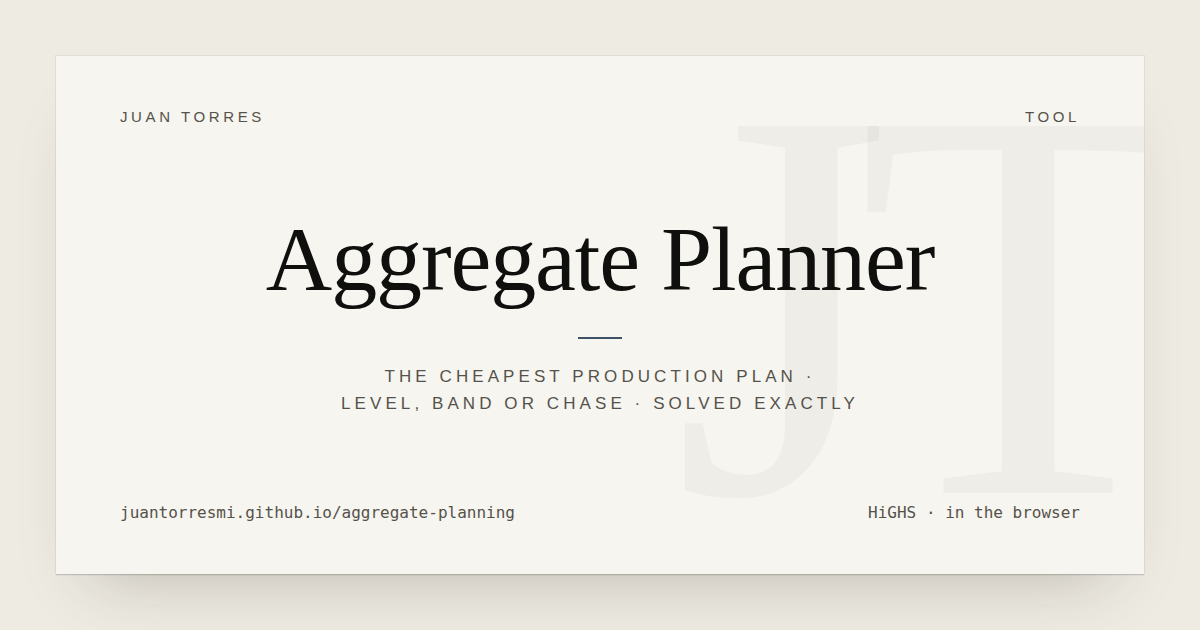
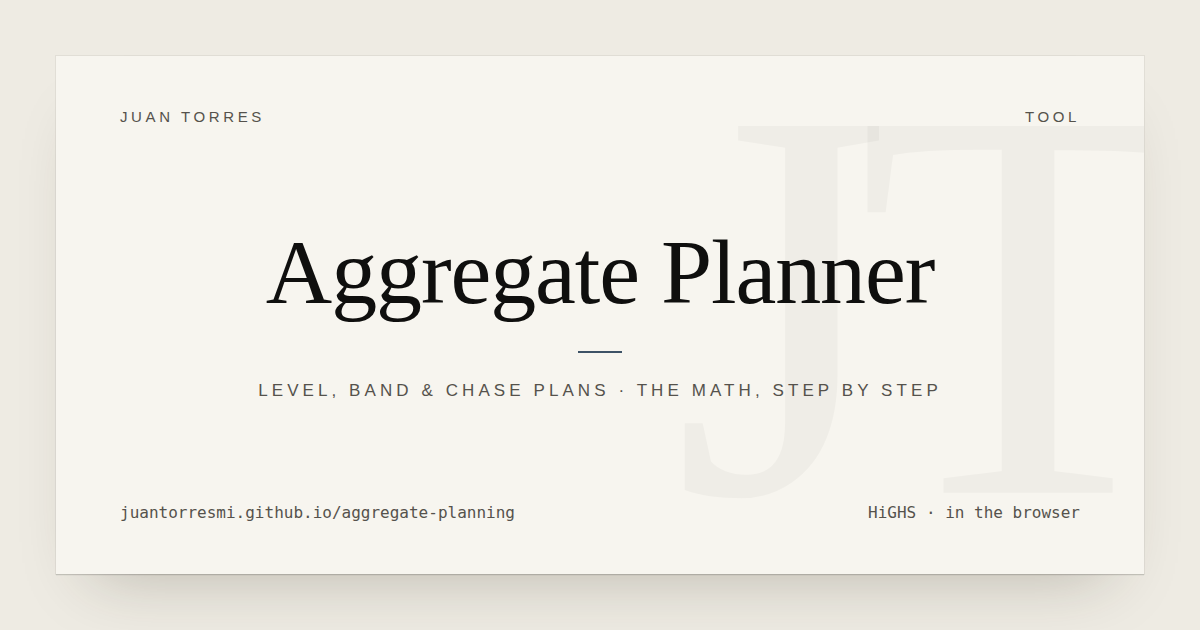
Make the Aggregate Planner page a findable learning resource
- Title and description say what students search for: an aggregate
  planning calculator and study tool, with the linear program and the
  solver worked step by step
- New crawlable sections: how the solver finds the cheapest plan (the
  relaxation, branch and bound, closing the gap) and shadow prices, both
  using the sample's real numbers. Study mode only renders with
  JavaScript, so this is the version search engines can read
- The page's JSON-LD is now also a schema.org LearningResource (teaches,
  educationalLevel, audience), driven by a new `learning` block in
  projects.yml; other projects are unchanged
- Search terms, features and the project summary mention the study side;
  the share picture reads "The math, step by step"

Claude-Session: https://claude.ai/code/session_01ShGKXbfDdSKFj2NrPiAqY1

Changed region(s): [[0.2158, 0.3619, 0.8017, 0.5127], [0.2158, 0.573, 0.8017, 0.6635]]

diff --git a/aggregate-planning/index.html b/aggregate-planning/index.html
@@ -1,8 +1,8 @@
 ---
 layout: app
 project: aggregate-planning
-title: "Aggregate Planning Calculator: Level, Chase & Band Plans"
-description: "Free aggregate planning calculator. Enter monthly demand and costs to compare level, chase and band plans, find the cheapest one, and export it to Excel."
+title: "Aggregate Planning Calculator, with the Math Step by Step"
+description: "Free aggregate planning calculator and study tool. Compare level, chase and band plans, see the linear program and solver worked step by step, export to Excel."
 image: /assets/og/aggregate-planning.png
 image_alt: "Aggregate Planner, an aggregate production planning calculator: the cheapest level, band or chase plan, month by month. A tool by Juan Torres."
 ---
@@ -22,7 +22,7 @@ image_alt: "Aggregate Planner, an aggregate production planning calculator: the 
 <div class="ap frame">
   <header class="ap-head">
     <p class="ap-label">Tool</p>
-    <h1>Aggregate Planner <span class="ap-h1-sub">An aggregate production planning calculator</span></h1>
+    <h1>Aggregate Planner <span class="ap-h1-sub">An aggregate planning calculator and study tool</span></h1>
     <p class="ap-lede">Set up the way textbook cases are. Enter a year of demand, your workforce, and what labor, inventory and stockouts cost. The planner solves the level, band and chase plans side by side and answers the usual questions: what each plan costs, how much to make each month, how high inventory gets, and how much you save by being flexible. Switch to Study to see how it got there. Everything runs in your browser, and nothing you type leaves it.</p>
   </header>
 
@@ -174,8 +174,21 @@ image_alt: "Aggregate Planner, an aggregate production planning calculator: the 
         <dt>Policy</dt><dd>level: W<sub>t</sub> = W<sub>0</sub> · band: fewest ≤ W<sub>t</sub> ≤ most · chase: no limit</dd>
         <dt>End of the year</dt><dd>S<sub>T</sub> = 0, W<sub>T</sub> and I<sub>T</sub> as required</dd>
       </dl>
-      <h3>An exact optimizer, not a spreadsheet heuristic</h3>
-      <p>The planner writes the problem as a mixed-integer program: every month has a workforce balance, an inventory balance, an overtime limit and a capacity limit, and the objective adds up hiring, layoffs, regular time, overtime, holding, stockouts and material. It hands that to <a href="https://highs.dev/">HiGHS</a>, an open-source solver compiled to WebAssembly, which searches until it can prove no cheaper plan exists. With “Whole teams only” off, the same model is a linear program and solves almost instantly. To watch all of this happen with your own numbers, switch the results to <strong>Study</strong>: it walks through the model, the relaxation, the first branch, the solver’s search log and the shadow prices, step by step.</p>
+      <h3>How the solver finds the cheapest plan</h3>
+      <p>If teams could be fractions, the model above would be a <strong>linear program</strong>. Every possible plan is a point inside a many-sided shape, and the cheapest one is always at a corner. The <strong>simplex method</strong> starts at a corner and keeps moving to a neighboring corner that costs less until none does. That’s the same engine as Excel Solver’s “Simplex LP” option.</p>
+      <p>Whole teams make it a <strong>mixed-integer program</strong>, which is harder, and the solver works on it in three steps. Here they are for the sample’s chase plan:</p>
+      <ol class="ap-list">
+        <li><strong>Solve the relaxation.</strong> First it ignores the whole-number rule. The fractional plan costs $4,867,016.41. No real plan can cost less, because a real plan has fewer options, so this is a floor. But it calls for things like 11.51 teams in month 8, which can’t be hired.</li>
+        <li><strong>Branch and bound.</strong> Every real plan has either 11 or fewer teams in month 8, or 12 or more. So the solver splits the problem into those two cases and solves each one. The cases cost at least $4,869,224.41 and $4,868,504.41, and both still have fractions, so it keeps splitting. Any branch whose floor is already above the best real plan found so far gets dropped without being explored. That’s the “bound”, and it’s why the search never has to try every combination.</li>
+        <li><strong>Close the gap.</strong> The solver keeps two numbers: the floor, the lowest cost still possible, and the best whole-team plan found so far. After a little over a dozen branches the two meet at $4,875,900. A gap of 0% is the proof that no cheaper plan exists.</li>
+      </ol>
+      <p>The price of hiring whole teams is the difference between the floor and the final plan: $8,883.59 here, about 0.2%. That’s why a Solver run without integer constraints comes out slightly cheaper than this planner with “Whole teams only” on.</p>
+      <h3>Shadow prices: what one more unit of demand costs</h3>
+      <p>Once the plan is set, a useful question is how much the cheapest cost would go up if a customer ordered one more unit in a given month. That number is the month’s <strong>shadow price</strong>, and it shows what the plan is doing at the margin.</p>
+      <p>In the sample’s level plan, one more unit costs just $60, its material, in months 1 to 3, because there’s spare capacity. From month 4 on the price climbs by exactly $12 a month, the holding cost, because the extra unit has to be built in month 3 and stored until it’s needed. In the chase plan, prices run from $131 to $185, and $185 is exactly what a unit costs on overtime: $60 of material plus $187.50 ÷ 1.5 units per team-hour. Shadow prices are how a planner reads which months are bottlenecks and what extra capacity would be worth.</p>
+      <p>To see all of this for your own numbers, switch the results to <strong>Study</strong>. It walks through the inputs, the model, each month’s constraints, the solver’s search and the shadow prices, step by step.</p>
+      <h3>Solved exactly, in your browser</h3>
+      <p>The planner writes the model out and hands it to <a href="https://highs.dev/">HiGHS</a>, an open-source optimization solver compiled to WebAssembly. It searches until it can prove no cheaper plan exists, so the answer is the true optimum, not a spreadsheet heuristic or a close guess.</p>
       <p>Everything runs on this page, and the numbers you enter stay in your browser. The share link carries them in the part of the address after the “#”, which browsers never send to a server. The source is <a href="https://github.com/JuanTorresMI/JuanTorresMI.github.io/tree/main/aggregate-planning">on GitHub</a>: <code>model.js</code> holds the whole model.</p>
     </div>
   </article>

diff --git a/_includes/head.html b/_includes/head.html
@@ -160,7 +160,7 @@
       ]
     },
     {
-      "@type": {% if project %}"WebApplication"{% elsif page.url == "/projects/" or page.url == "/blog/" %}"CollectionPage"{% else %}"WebPage"{% endif %},
+      "@type": {% if project and project.learning %}["WebApplication", "LearningResource"]{% elsif project %}"WebApplication"{% elsif page.url == "/projects/" or page.url == "/blog/" %}"CollectionPage"{% else %}"WebPage"{% endif %},
       "@id": "{{ page.url | absolute_url }}#page",
       "url": {{ page.url | absolute_url | jsonify }},
       "name": {{ crumb_title | jsonify }},
@@ -175,7 +175,11 @@
       "browserRequirements": "Requires JavaScript",
       "isAccessibleForFree": true,
       "offers": { "@type": "Offer", "price": "0", "priceCurrency": "USD" },
-      "keywords": {{ project.search | default: project.stack | join: ", " | jsonify }},
+      "keywords": {{ project.search | default: project.stack | join: ", " | jsonify }},{% if project.learning %}
+      "learningResourceType": {{ project.learning.type | jsonify }},
+      "educationalLevel": {{ project.learning.level | jsonify }},
+      "audience": { "@type": "EducationalAudience", "educationalRole": "student", "audienceType": {{ project.learning.audience | jsonify }} },
+      "teaches": {{ project.learning.teaches | jsonify }},{% endif %}
       "creator": { "@type": "Person", "@id": {{ person_id | jsonify }} }{% endif %}
     }
   ]

diff --git a/aggregate-planning/planner.css b/aggregate-planning/planner.css
@@ -254,6 +254,8 @@
 .ap-prose a { color: var(--ink); text-decoration: underline; text-decoration-thickness: 1px; text-underline-offset: 4px; text-decoration-color: var(--rule); transition: color 0.15s, text-decoration-color 0.15s; }
 .ap-prose a:hover { color: var(--accent); text-decoration-color: var(--accent); }
 .ap-prose code { font: 0.88em var(--mono); }
+.ap-prose .ap-list { margin: 0 0 1.1em; padding-left: 24px; }
+.ap-prose .ap-list li { font-size: 17px; line-height: 1.7; margin-bottom: 0.6em; padding-left: 4px; }
 .ap-prose .ap-scroll { margin: 8px 0 24px; }
 .ap-example th[scope="row"] { font: 400 13px/1.4 var(--sans); letter-spacing: 0; text-transform: none; color: var(--text); text-align: left; padding: 8px 10px 8px 0; border-bottom: 1px solid var(--rule); }
 .ap-example thead th { white-space: normal; }

diff --git a/scripts/og-images.js b/scripts/og-images.js
@@ -29,7 +29,7 @@ const CARDS = {
   "craft-ledger": { top: ["Juan Torres", "Tool"], name: "Craft Ledger",
     sub: "Which Minecraft crafts actually make money · 2,770 items", bottom: ["juantorresmi.github.io/craft-ledger.html", "Local-first web app"] },
   "aggregate-planning": { top: ["Juan Torres", "Tool"], name: "Aggregate Planner",
-    sub: "The cheapest production plan · Level, band or chase · Solved exactly", bottom: ["juantorresmi.github.io/aggregate-planning", "HiGHS · in the browser"] },
+    sub: "Level, band & chase plans · The math, step by step", bottom: ["juantorresmi.github.io/aggregate-planning", "HiGHS · in the browser"] },
 };
 
 const css = `

diff --git a/CLAUDE.md b/CLAUDE.md
@@ -64,8 +64,8 @@ dates and figures. Spacing steps are multiples of 8.
   `description` (this becomes the meta description and the excerpt on `/blog/`). Nothing else
   to touch: the feed, sitemap, writing index and JSON-LD pick it up.
 - **A project**: add it to `_data/projects.yml` (slug, title, url, kind, status, short, summary,
-  metric, stack, keywords; optionally a schema.org `category`, a `features` list and
-  `search` terms for the JSON-LD), then make the page with `layout: app`, `project: <slug>`, `title`,
+  metric, stack, keywords; optionally a schema.org `category`, a `features` list,
+  `search` terms and a `learning` block (type, level, audience, teaches) for the JSON-LD), then make the page with `layout: app`, `project: <slug>`, `title`,
   `description`, `image` and `image_alt`. Give it a share picture in `scripts/og-images.js` and
   re-run that script. The project bar, home page and `/projects/` update on their own.
 - **A page**: `layout: default`, a `permalink`, `title`, `description`. Add `image` if a share
